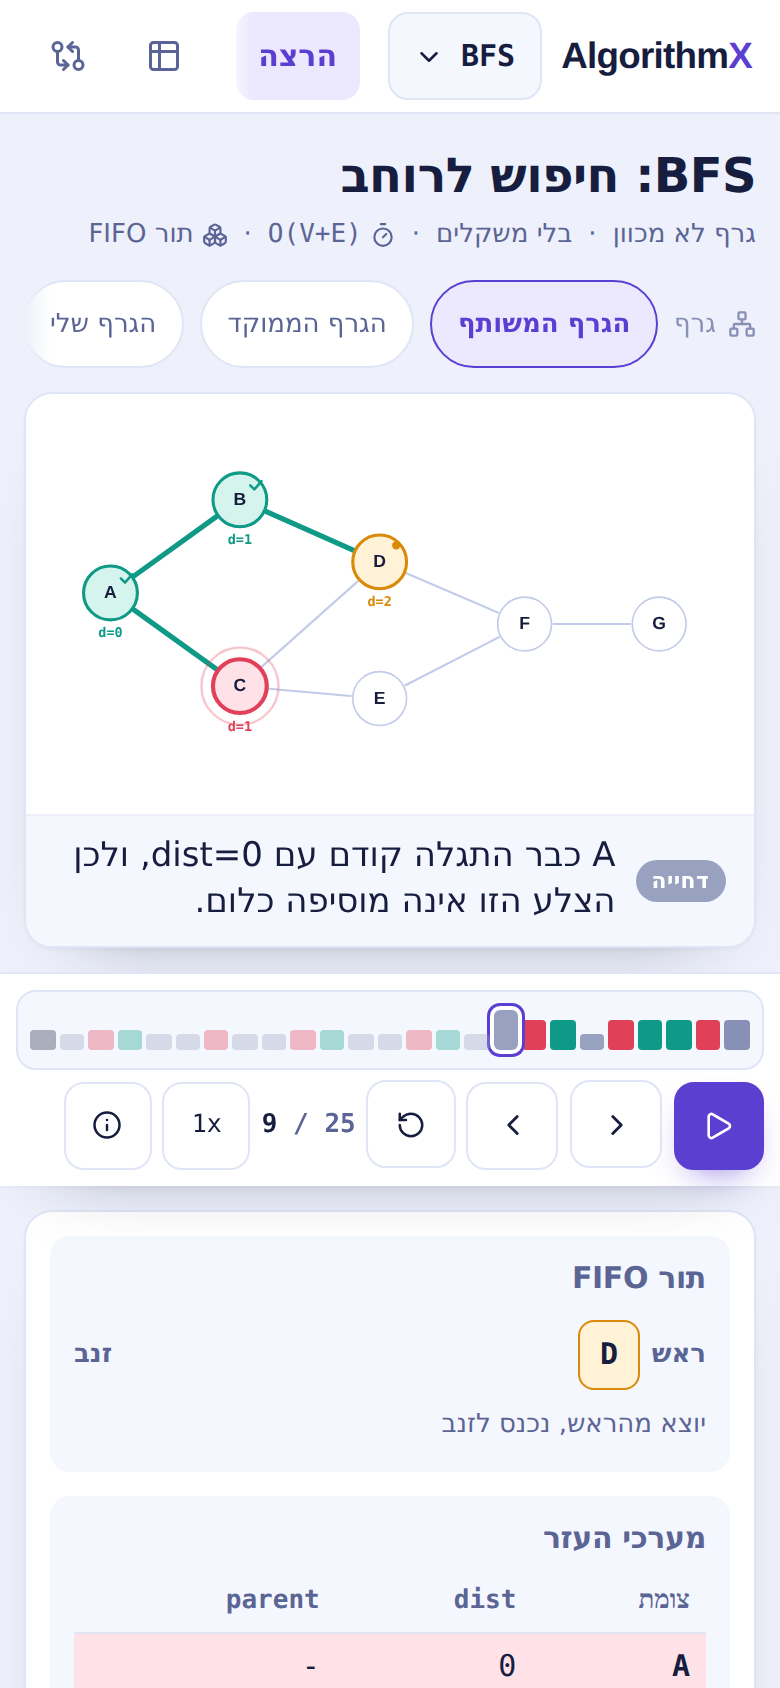
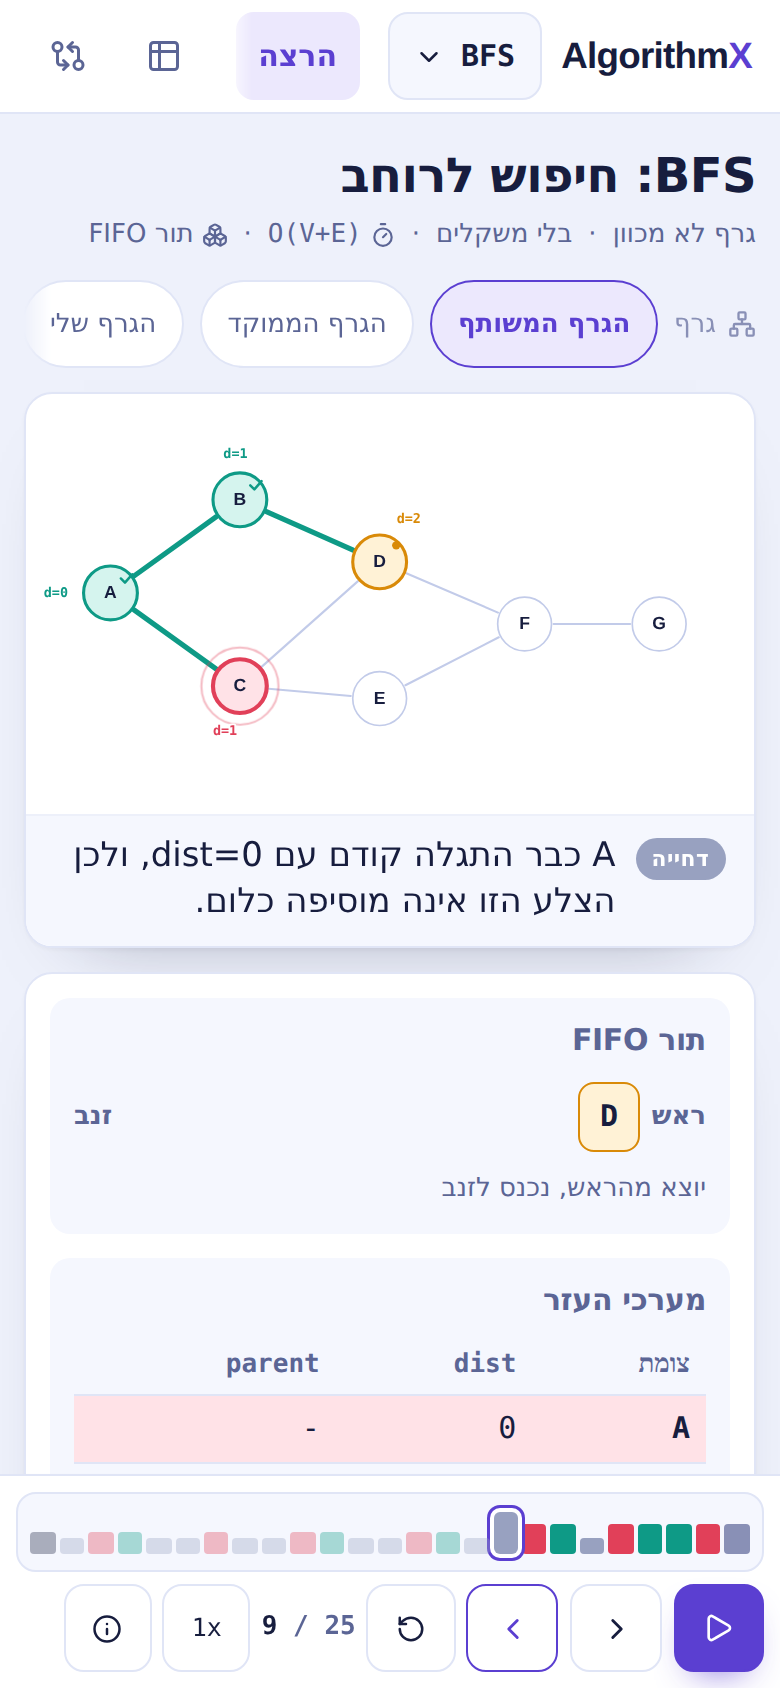
Put the data structures beside the graph and widen the top bar
Following a run meant looking in two places: the graph on the first screen
and the queue a scroll below it. The queue, the distance array and the rest
now sit in a side rail directly next to the graph, matched to the stage
height and scrolled on their own when a structure is tall, so a push and
the node that caused it are visible at the same moment. Below 1024px they
stack under the graph as before.

The top bar spans the full window instead of stopping at the content width,
so the wordmark sits in the top corner of the screen at any size and the
two utility pages sit in the opposite corner.

Heebo is Roboto's Hebrew companion and reads flat at UI sizes. The body and
interface face becomes IBM Plex Sans Hebrew, which is drawn as Hebrew
first, holds a larger x-height in the data tables, and sits better beside
JetBrains Mono. Rubik still carries the headings.

Also: the event chip in the narration now aligns to the first line rather
than floating to the middle of a wrapped caption.

Screenshots in docs regenerated for the new face and layout.

diff --git a/src/components/RunPanel.tsx b/src/components/RunPanel.tsx
@@ -220,38 +220,34 @@ export function RunPanel({ module, onGoToCompare, onNavigate }: Props) {
        * the viewport, with the rail docked under it. Everything a run needs is
        * on the first screen, at any window height.
        */}
-      <div className="run-stage stage">
-        <div className="stage-canvas">
-          <GraphCanvas
-            graph={graph}
-            frame={frame}
-            hoveredNode={hovered}
-            onHoverNode={setHovered}
-            fit
-            ariaLabel={`הרצת ${module.shortHe} על הגרף`}
-          />
-        </div>
-        <p className="stage-caption" aria-live="polite">
-          {frame ? (
-            <span key={player.index} className="caption-swap flex items-center gap-2.5">
-              <span className="event-chip" style={{ background: EVENT_COLOR[frame.event] }}>
-                {EVENT_LABEL[frame.event]}
+      {/* Graph on the reading side, its data structures beside it on the left. */}
+      <div className="grid gap-3 lg:grid-cols-[minmax(0,1fr)_330px]">
+        <div className="run-stage stage">
+          <div className="stage-canvas">
+            <GraphCanvas
+              graph={graph}
+              frame={frame}
+              hoveredNode={hovered}
+              onHoverNode={setHovered}
+              fit
+              ariaLabel={`הרצת ${module.shortHe} על הגרף`}
+            />
+          </div>
+          <p className="stage-caption" aria-live="polite">
+            {frame ? (
+              <span key={player.index} className="caption-swap flex items-start gap-2.5">
+                <span className="event-chip" style={{ background: EVENT_COLOR[frame.event] }}>
+                  {EVENT_LABEL[frame.event]}
+                </span>
+                <span>{frame.message}</span>
               </span>
-              <span>{frame.message}</span>
-            </span>
-          ) : (
-            <span className="text-ink-soft">אין צעדים להצגה בגרף הזה.</span>
-          )}
-        </p>
-      </div>
+            ) : (
+              <span className="text-ink-soft">אין צעדים להצגה בגרף הזה.</span>
+            )}
+          </p>
+        </div>
 
-      <div className="run-rail">
-        <TransportRail player={player} frames={frames} flow={graph.flow} />
-      </div>
-
-      {/* Depth. Reached by scrolling on purpose, not scrolled past by accident. */}
-      <div className="grid gap-3 lg:grid-cols-[340px_minmax(0,1fr)]">
-        <div className="min-w-0">
+        <aside className="run-aside">
           {frame ? (
             <div className="card p-3">
               <AuxPanel views={frame.aux} hovered={hovered} onHover={setHovered} />
@@ -259,11 +255,15 @@ export function RunPanel({ module, onGoToCompare, onNavigate }: Props) {
           ) : (
             <p className="text-ink-soft">אין מבני נתונים להצגה.</p>
           )}
-        </div>
-        <div className="min-w-0">
-          <Pseudocode lines={module.content.pseudocode} activeLine={frame?.codeLine} />
-        </div>
+        </aside>
       </div>
+
+      <div className="run-rail">
+        <TransportRail player={player} frames={frames} flow={graph.flow} />
+      </div>
+
+      {/* Depth. Reached by scrolling on purpose, not scrolled past by accident. */}
+      <Pseudocode lines={module.content.pseudocode} activeLine={frame?.codeLine} />
 
       {module.content.compareHint && onGoToCompare && (
         <div className="card flex flex-wrap items-center gap-3 px-4 py-3">

diff --git a/src/theme/tokens.css b/src/theme/tokens.css
@@ -19,8 +19,8 @@
   --color-done: var(--state-done);
   --color-done-fill: var(--state-done-fill);
 
-  --font-display: Rubik, Heebo, system-ui, sans-serif;
-  --font-body: Heebo, system-ui, sans-serif;
+  --font-display: Rubik, 'IBM Plex Sans Hebrew', system-ui, sans-serif;
+  --font-body: 'IBM Plex Sans Hebrew', system-ui, sans-serif;
   --font-mono: 'JetBrains Mono', ui-monospace, monospace;
 
   --radius-card: var(--radius);
@@ -373,11 +373,7 @@
    * The stage takes whatever the viewport has left after the header and the
    * rail, so graph plus narration plus controls always land on one screen.
    */
-  height: clamp(
-    260px,
-    calc(100vh - var(--header-h) - var(--rail-h) - 152px),
-    780px
-  );
+  height: var(--stage-h);
 
   @media (max-width: 639px) {
     /* On a phone the graph keeps its own aspect instead of letterboxing into a
@@ -387,6 +383,18 @@
     & .stage-canvas {
       aspect-ratio: 2 / 1.15;
     }
+  }
+}
+
+@utility run-aside {
+  /* The data structures sit beside the graph, so a push or a pop is visible at
+     the same moment the graph changes instead of a screen away. */
+  min-width: 0;
+
+  @media (min-width: 1024px) {
+    height: var(--stage-h);
+    overflow-y: auto;
+    scrollbar-width: thin;
   }
 }
 
@@ -473,6 +481,7 @@
 
 @utility event-chip {
   flex: none;
+  margin-block-start: 0.15rem;
   font-size: 0.68rem;
   font-weight: 700;
   padding: 0.18rem 0.5rem;
@@ -705,6 +714,9 @@
   /* Every interactive target clears the touch minimum. */
   --tap: 44px;
 
+  /* What the viewport has left for the graph once the chrome and rail are out. */
+  --stage-h: clamp(260px, calc(100vh - var(--header-h) - var(--rail-h) - 152px), 780px);
+
   --ease-spring: cubic-bezier(0.34, 1.28, 0.42, 1);
   --ease-out: cubic-bezier(0.22, 0.8, 0.3, 1);
 }
@@ -756,7 +768,7 @@
     margin: 0;
     background: var(--bg);
     color: var(--ink);
-    font-family: Heebo, system-ui, sans-serif;
+    font-family: 'IBM Plex Sans Hebrew', system-ui, sans-serif;
     font-size: var(--step-2);
     font-weight: 400;
     line-height: 1.65;
@@ -764,14 +776,15 @@
   }
 
   /*
-   * Rubik carries the headings at 600. Heebo carries everything else across a
-   * real weight range, so hierarchy comes from weight and colour, not size alone.
+   * Rubik carries the headings at 600. IBM Plex Sans Hebrew carries everything
+   * else across a real weight range, so hierarchy comes from weight and colour,
+   * not size alone.
    */
   h1,
   h2,
   h3,
   h4 {
-    font-family: Rubik, Heebo, system-ui, sans-serif;
+    font-family: Rubik, 'IBM Plex Sans Hebrew', system-ui, sans-serif;
     font-weight: 600;
     line-height: 1.25;
     letter-spacing: -0.012em;

diff --git a/src/components/GraphCanvas.tsx b/src/components/GraphCanvas.tsx
@@ -360,7 +360,7 @@ export function GraphCanvas({
             y={22}
             fontSize={12}
             fill="var(--ink-soft)"
-            fontFamily="Heebo, sans-serif"
+            fontFamily="'IBM Plex Sans Hebrew', sans-serif"
           >
             min cut
           </text>
@@ -539,7 +539,7 @@ export function GraphCanvas({
               textAnchor="middle"
               fontSize={17}
               fontWeight={700}
-              fontFamily="Heebo, sans-serif"
+              fontFamily="'IBM Plex Sans Hebrew', sans-serif"
               fill="var(--ink)"
             >
               {n.id}

diff --git a/index.html b/index.html
@@ -8,7 +8,7 @@
     <link rel="preconnect" href="https://fonts.googleapis.com" />
     <link rel="preconnect" href="https://fonts.gstatic.com" crossorigin />
     <link
-      href="https://fonts.googleapis.com/css2?family=Rubik:wght@500;600;700&family=Heebo:wght@300;400;500;600;700;800&family=JetBrains+Mono:wght@400;500;600&display=swap"
+      href="https://fonts.googleapis.com/css2?family=Rubik:wght@500;600;700&family=IBM+Plex+Sans+Hebrew:wght@300;400;500;600;700&family=JetBrains+Mono:wght@400;500;600&display=swap"
       rel="stylesheet"
     />
   </head>

diff --git a/src/pages/ComparePage.tsx b/src/pages/ComparePage.tsx
@@ -43,7 +43,7 @@ function Side({ title, graph, frames, index, onSeek, synced }: SideProps) {
         </div>
         <p className="stage-caption" aria-live="polite" style={{ fontSize: 'var(--step-2)' }}>
           {frame && (
-            <span key={i} className="caption-swap flex items-center gap-2.5">
+            <span key={i} className="caption-swap flex items-start gap-2.5">
               <span className="event-chip" style={{ background: EVENT_COLOR[frame.event] }}>
                 {EVENT_LABEL[frame.event]}
               </span>

diff --git a/src/App.tsx b/src/App.tsx
@@ -79,7 +79,7 @@ export function App() {
       <ScrollOverlay />
 
       <header ref={headerRef} className="app-header">
-        <div className="mx-auto flex w-full max-w-[1400px] items-center gap-2 px-3 sm:gap-3 sm:px-4 lg:px-6">
+        <div className="flex w-full items-center gap-2 px-3 sm:gap-3 sm:px-4 lg:px-6">
           <div className="flex h-[56px] flex-none items-center sm:h-[60px]">
             <Brand onClick={() => go(ALGORITHMS[0].id)} />
           </div>
